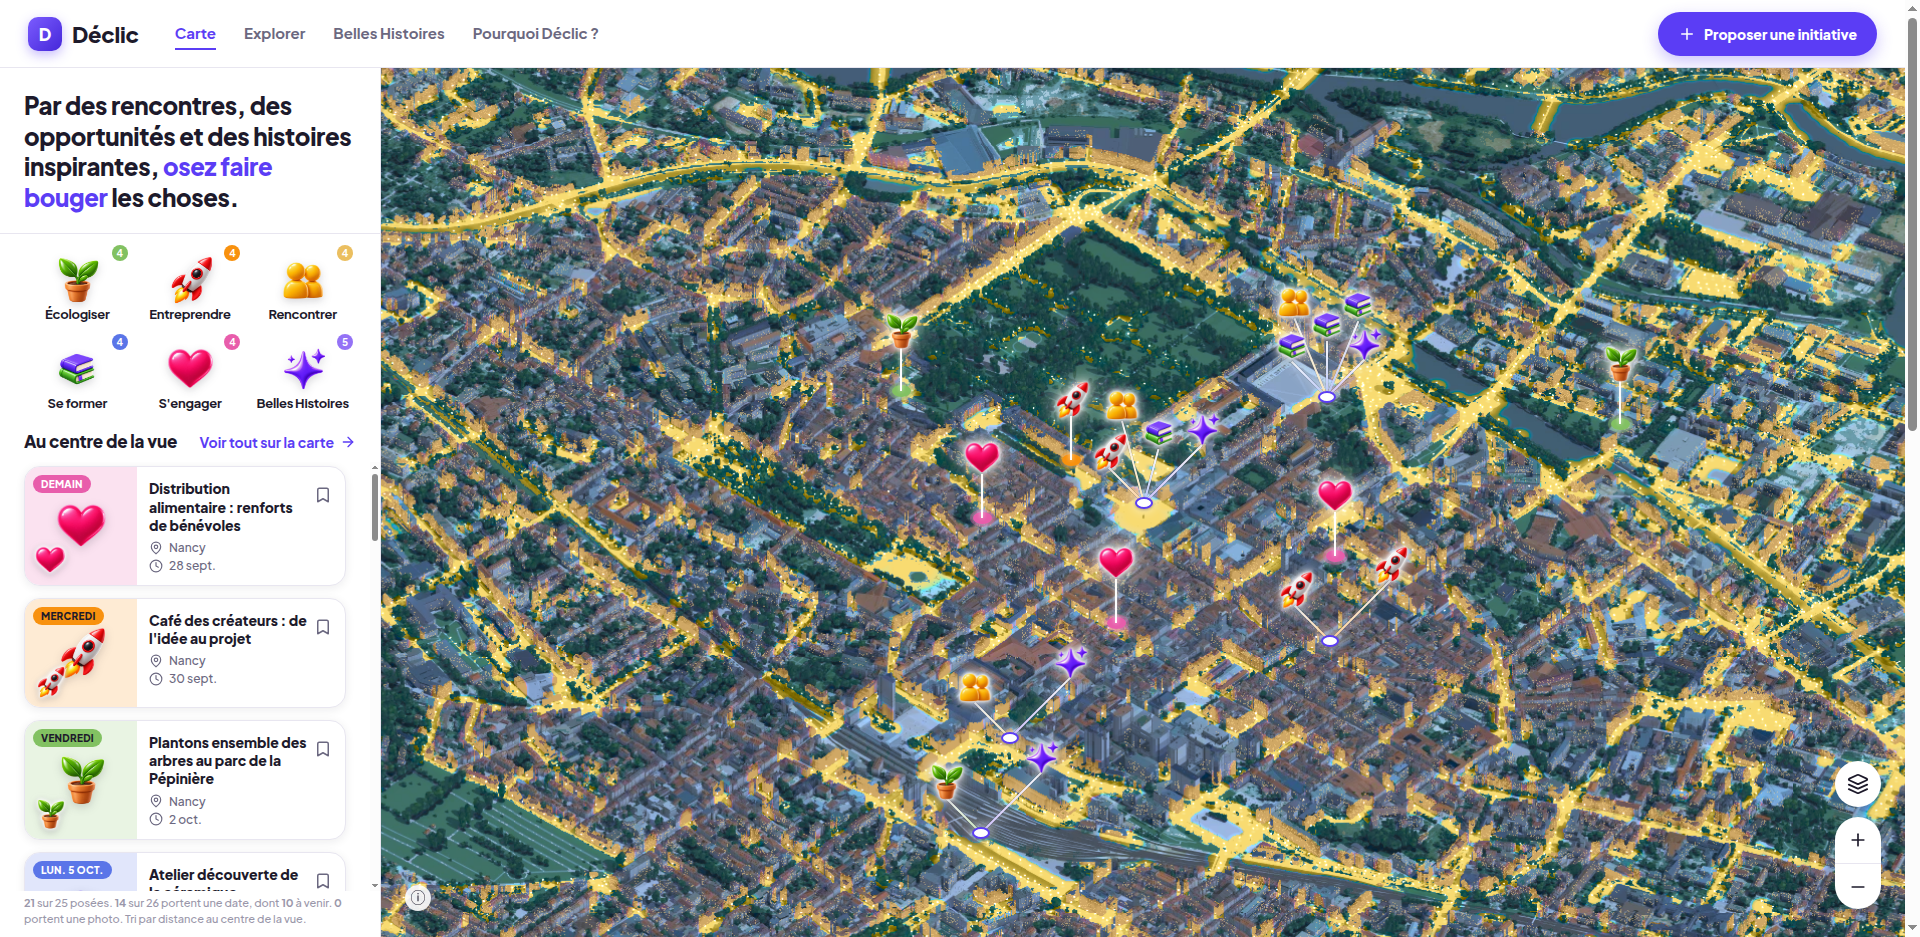
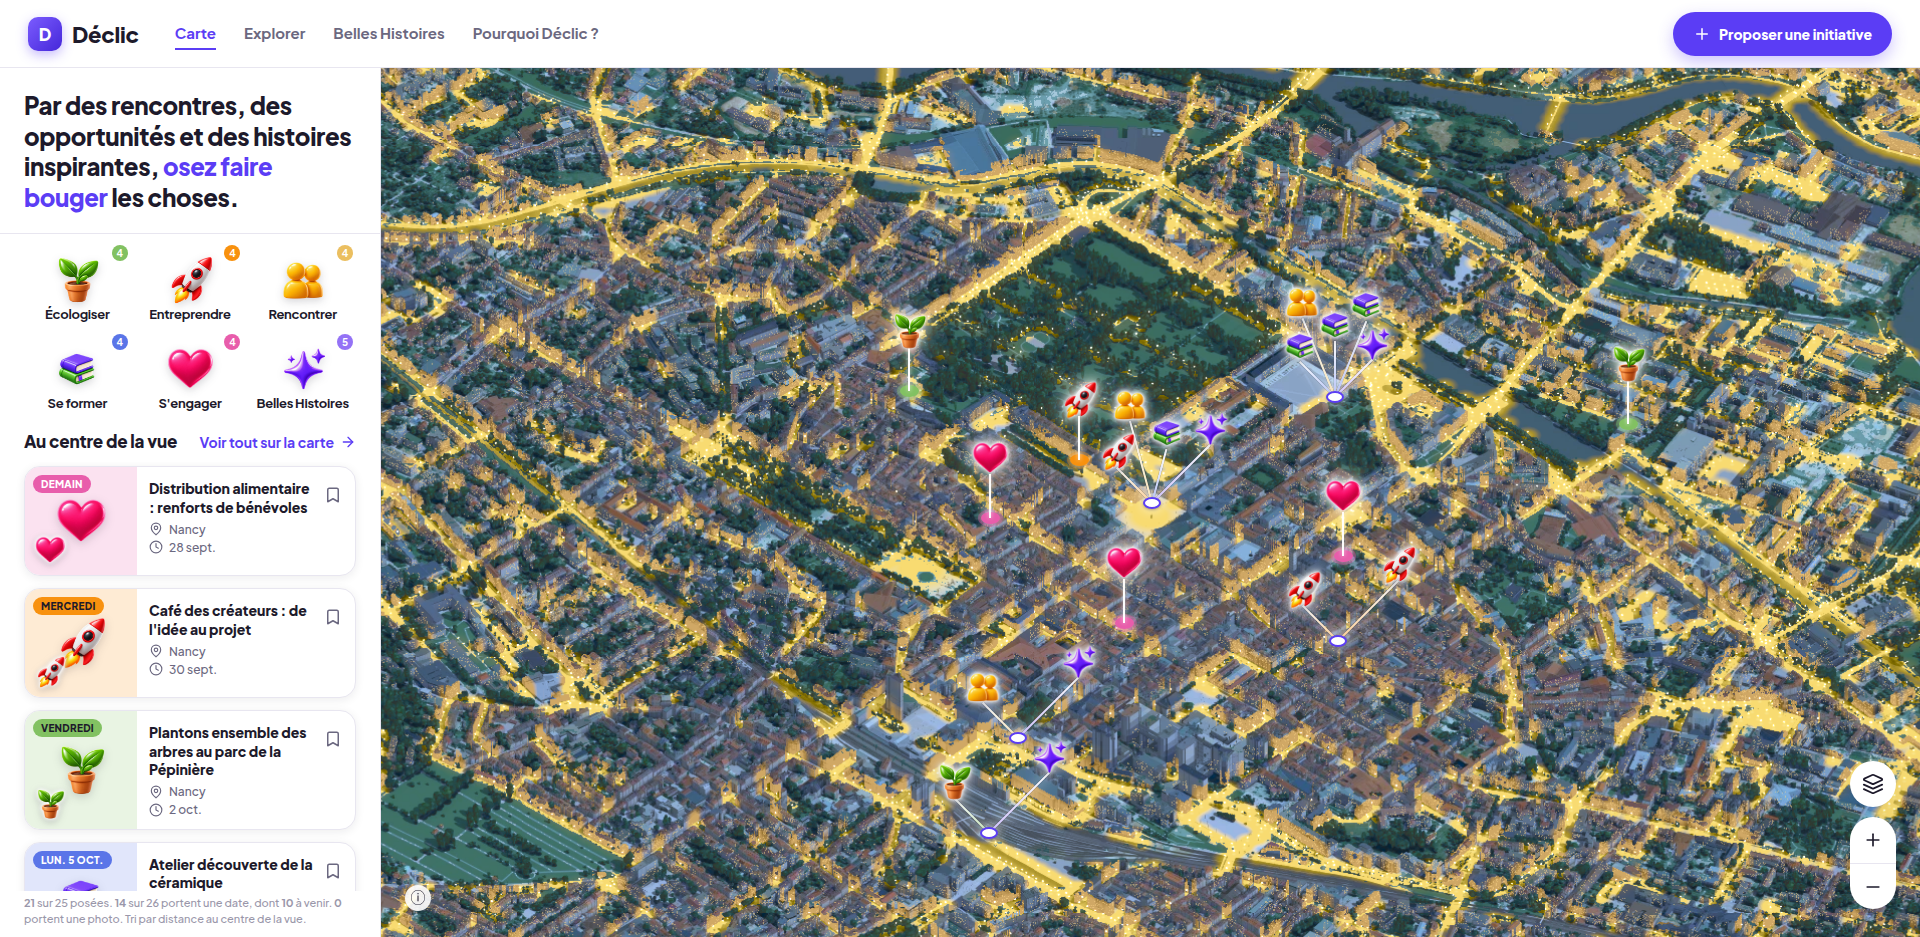
Nuit v7d : corrige la frange cyan/magenta des halos (rotation d'ombre)
L'ombre (voile bleu-violet) et la lumière des rues/façades (or) tournaient
chacune la teinte a*/b* du même pixel dans des sens opposés ; à l'arc le
plus court, la rotation traverse le vert/cyan entre l'or et le bleu-violet,
visible comme une frange cyan/magenta aux bords des halos (place, gare).

giroYZ (ambiance.js) tourne l'angle en conservant le chroma du pixel et en
forçant le grand tour (par le rouge/magenta) quand l'arc le plus court
traverserait cette zone. Rues/façades gardent le mix a*/b* direct (déjà
correct). Recadrages 200 % : rues/façades toujours <8°/<0,1 des cibles ;
ombres <8° en teinte (saturation encore sous la cible, chroma d'origine
trop faible — hors scope de ce correctif). 89 + 19 tests toujours verts.

diff --git a/app/javascript/diorama/ambiance.js b/app/javascript/diorama/ambiance.js
@@ -99,6 +99,23 @@ const SOURCE_FS = [
   "  vec3 xyz = vec3(fi(fx), fi(fy), fi(fz)) * vec3(0.950456, 1.0, 1.088754);",
   "  vec3 l = mat3(3.240479, -0.969256, 0.055648, -1.537150, 1.875992, -0.204043, -0.498535, 0.041556, 1.057311) * xyz;",
   "  return gam(l); }",
+  // v7c (ombre) : rotation de teinte a*/b* qui CONSERVE LE CHROMA DU PIXEL D'ORIGINE — contrairement à un
+  // mix qui dérive vers le chroma de la cible (ici très faible : cibleOmbre est mesurée quasi noire), ce
+  // qui désature les ombres bien plus que la référence. On tourne donc l'angle seul, à l'arc le plus court
+  // SAUF quand celui-ci traverse le vert/cyan (~140°-215° en angle Lab — le point médian du trajet suffit
+  // à le détecter) : l'or et le crème des façades jour (~85°-95°) sont juste de l'autre côté de cette
+  // zone que le bleu-violet des ombres (~245°-260°), donc l'arc le plus court y passe presque toujours ;
+  // on force alors le grand tour, par le rouge/magenta, sans effet visible car aucune des deux couleurs
+  // n'est proche de cette zone. rO quasi nul (gris neutre) : retour à un mix brut, sûr (pas d'angle instable).
+  "vec2 giroYZ(vec2 origine, vec2 cible, float t){",
+  "  float rO = length(origine);",
+  "  if (rO < 0.0008) return mix(origine, cible, t);",
+  "  float aO = atan(origine.y, origine.x), aC = atan(cible.y, cible.x);",
+  "  float diff = mod(aC - aO + 3.14159265, 6.28318531) - 3.14159265;",
+  "  float mid = mod(aO + diff * 0.5 + 6.28318531, 6.28318531);",
+  "  if (mid > 2.44346 && mid < 3.75246) diff -= sign(diff) * 6.28318531;",
+  "  return rO * vec2(cos(aO + diff * t), sin(aO + diff * t));",
+  "}",
   "vec3 hsv(vec3 c){ float mx = max(c.r, max(c.g, c.b)), mn = min(c.r, min(c.g, c.b)), d = mx - mn, h = 0.0;",
   "  if (d > 0.0) { if (mx == c.r) h = 60.0 * (c.g - c.b) / d; else if (mx == c.g) h = 120.0 + 60.0 * (c.b - c.r) / d;",
   "    else h = 240.0 + 60.0 * (c.r - c.g) / d; if (h < 0.0) h += 360.0; }",
@@ -144,6 +161,15 @@ const SOURCE_FS = [
   "  else if (modeClasse == 1) { toit = texture2D(tClasse, uv).r; classe = toit > 0.5 ? 2.0 : 1.0; }",
   "  else { classe = 2.0; toit = -1.0; }",
   "  if (classe > 0.0 && feuillage(o)) classe = 3.0;",
+  // Poids de la lumière des rues/places au pied de CE pixel, calculé ICI (avant l'ombre) et réutilisé
+  // tel quel plus bas (étape 4) : sans cela, l'ombre teinte vers le bleu-violet un pixel qui va de toute
+  // façon recevoir la lumière chaude juste après, et les deux rotations de teinte opposées se composent
+  // en travers du cercle des teintes — visible comme une frange cyan/magenta aux bords des halos (v7b).
+  "  vec3 lLum = vec3(0.0); float wLum = 0.0;",
+  "  if (lumieres == 1) { lLum = lumiere(px);",
+  "    float solPre = toit < 0.0 || classe == 1.0 ? 1.0 : facade.w;",
+  "    float placePre = lLum.b * (classe == 3.0 ? 0.0 : 1.0);",
+  "    wLum = (1.0 - (1.0 - lLum.r) * (1.0 - placePre)) * solPre; }",
   "  vec3 lab = versLab(o);",
   // 1. Saison.
   "  if (saison == 1) lab = regles_s(lab, classe);",
@@ -180,16 +206,12 @@ const SOURCE_FS = [
   // (cibleOmbre). v7b : ce virage ne touche que a*/b* (Lab), jamais L* — donc aucun assombrissement
   // supplémentaire au-delà de celui déjà posé par `luminosite` ci-dessus.
   "    if (voileOmbres > 0.5) {",
-  "      float part = voile.a * (1.0 - smoothstep(0.05, 0.30, luma(rgb)));",
+  "      float part = voile.a * (1.0 - smoothstep(0.05, 0.30, luma(rgb))) * (1.0 - clamp(wLum, 0.0, 1.0));",
   "      vec3 labV = versLab(rgb), cibleV = versLab(cibleOmbre);",
-  // mixer les vecteurs a*/b* bruts dilue la saturation : leur norme dépend de L*, or cibleOmbre est
-  // mesurée sur un échantillon très sombre. On tourne donc seulement la teinte (direction de cibleV.yz),
-  // en conservant le chroma propre du pixel, pour éviter ce délavage.
-  "      float chroma = length(labV.yz);",
-  "      vec2 dirCible = length(cibleV.yz) > 1e-4 ? normalize(cibleV.yz) : labV.yz;",
-  "      vec2 dirPixel = chroma > 1e-4 ? labV.yz / chroma : dirCible;",
-  "      vec2 dir = normalize(mix(dirPixel, dirCible, part));",
-  "      labV.yz = dir * chroma;",
+  // giroYZ (voir sa définition) : rotation à chroma conservé, grand tour forcé par le rouge/magenta pour
+  // ne jamais traverser le vert/cyan — remplace le mix brut v7c, qui évitait bien la frange mais désaturait
+  // les ombres bien en dessous de la cible mesurée (cibleOmbre est mesurée quasi noire, donc peu chromatique).
+  "      labV.yz = giroYZ(labV.yz, cibleV.yz, part);",
   "      rgb = depuisLab(labV);",
   "    } else {",
   "      rgb = mix(rgb, voile.rgb, voile.a);",
@@ -206,22 +228,18 @@ const SOURCE_FS = [
   "    bool tuile = k.y > 0.3 && k.x <= 32.0, ardoise = k.x >= 175.0 && k.x <= 260.0 && k.y < 0.35;",
   "    float fac = d > 0.0 && !tuile && !ardoise ? 1.0 : 0.0; // tuiles orangées et ardoises bleues : toit, pas de fenêtres",
   "    float sol = toit < 0.0 || classe == 1.0 ? 1.0 : facade.w;",
-  "    vec3 l = lumiere(px);",
-  "    float place = l.b * (classe == 3.0 ? 0.0 : 1.0);",
-  "    float lr = 1.0 - (1.0 - l.r) * (1.0 - place);",
-  "    float w = lr * sol;",
-  // v7b : la surface éclairée se déplace en Lab vers la couleur cible mesurée (cibleRue). a*/b* :
-  // rotation de teinte + interpolation du chroma (comme les ombres) — pas un mix brut, qui délave.
+  // l, w : déjà calculés plus haut (lLum, wLum), avant l'ombre — voir le commentaire à leur déclaration.
+  "    vec3 l = lLum; float w = wLum;",
+  // v7b : la surface éclairée se déplace en Lab vers la couleur cible mesurée (cibleRue). a*/b* : mix
+  // direct des vecteurs (pas giroYZ ici — la cible est déjà bien chromatique, un mix brut ne désature
+  // pas de façon sensible, et ça évite une rotation inutile sur des pixels déjà proches de l'or).
   // L* : LIFT ADDITIF plafonné à la cible (jamais au-delà, donc jamais de blanc), pas un mix — un mix
   // écrase toute variation locale (pavés, ombres portées) dès que w approche 1 sur une large zone
   // (place, carrefour) ; l'addition plafonnée garde cette texture tant qu'elle ne dépasse pas le plafond.
   "    if (w > 0.0) {",
   "      vec3 labR = versLab(rgb), cibleR = versLab(cibleRue);",
   "      float wTeinte = clamp(w * doseRue, 0.0, 1.0);",
-  "      float chO = length(labR.yz), chC = length(cibleR.yz);",
-  "      vec2 dirC = chC > 1e-4 ? cibleR.yz / chC : labR.yz;",
-  "      vec2 dirO = chO > 1e-4 ? labR.yz / chO : dirC;",
-  "      labR.yz = normalize(mix(dirO, dirC, wTeinte)) * mix(chO, chC, wTeinte);",
+  "      labR.yz = mix(labR.yz, cibleR.yz, wTeinte);",
   "      labR.x = min(labR.x + gainRue * w, cibleR.x);",
   "      rgb = depuisLab(labR);",
   "    }",
@@ -233,10 +251,7 @@ const SOURCE_FS = [
   "      if (wf > 0.0) {",
   "        vec3 labF = versLab(rgb), cibleF = versLab(cibleFacade);",
   "        float wTeinteF = clamp(wf * doseFacade, 0.0, 1.0);",
-  "        float chOF = length(labF.yz), chCF = length(cibleF.yz);",
-  "        vec2 dirCF = chCF > 1e-4 ? cibleF.yz / chCF : labF.yz;",
-  "        vec2 dirOF = chOF > 1e-4 ? labF.yz / chOF : dirCF;",
-  "        labF.yz = normalize(mix(dirOF, dirCF, wTeinteF)) * mix(chOF, chCF, wTeinteF);",
+  "        labF.yz = mix(labF.yz, cibleF.yz, wTeinteF);",
   "        labF.x = min(labF.x + gainFacade * wf, cibleF.x);",
   "        rgb = depuisLab(labF);",
   "      }",

diff --git a/app/javascript/diorama/reglages.js b/app/javascript/diorama/reglages.js
@@ -42,13 +42,19 @@ export const MOMENTS = {
   // (pavés, ombres portées) dès que le poids approchait 1 sur une large zone — aplat plat sur la place
   // Stanislas et le carrefour de la gare. L* reçoit donc un LIFT ADDITIF (LAMPADAIRES.nappe/facades.gainL,
   // en points L*) plafonné à la cible : la texture reste visible tant qu'elle ne dépasse pas le plafond.
-  // Pour les ombres, on tourne la teinte a*/b* vers cibleOmbre en conservant le chroma du pixel (pas un
-  // mix brut des vecteurs, qui délave — leur norme dépend de L* et cibleOmbre est mesurée très sombre) ;
-  // les ombres ne touchent pas L*, donc aucun assombrissement supplémentaire.
-  // Mesuré sur les recadrages 200 % (Stanislas + gare) après le correctif du lift additif (plus haut) :
-  // rues H=47° S=0.51 ; façades H=38° S=0.50 ; ombres H=206° S=0.54 — tous à moins de 8° et 0,1 des
-  // cibles ci-dessus (le premier réglage v7b, à base d'un mix plein en L*, les respectait déjà mais
-  // aplatissait la place Stanislas et un carrefour de la gare en un bloc uni — voir gainL ci-dessus).
+  // Pour les rues et façades, a*/b* reçoit un mix DIRECT des vecteurs (pas de rotation) vers la cible :
+  // la cible y est déjà bien chromatique, donc un mix brut ne désature pas de façon sensible.
+  // Pour les ombres, giroYZ (ambiance.js) tourne l'ANGLE de a*/b* vers cibleOmbre en conservant le CHROMA
+  // du pixel d'origine (cibleOmbre est mesurée quasi noire, donc peu chromatique elle-même — un mix brut
+  // désaturerait les ombres bien en dessous de la cible) ; l'arc le plus court est pris SAUF s'il traverse
+  // le vert/cyan (or et bleu-violet sont loin l'un de l'autre sur le cercle des teintes Lab), auquel cas
+  // on force le grand tour par le rouge/magenta — sans quoi une frange cyan/magenta apparaît aux bords des
+  // halos (v7b/v7c, corrigé v7d). Les ombres ne touchent pas L*, donc aucun assombrissement supplémentaire.
+  // Mesuré sur les recadrages 200 % (Stanislas + gare) après le correctif giroYZ (v7d) :
+  // rues H=47° S=0.54 ; façades H=38-47° S=0.52-0.61 ; ombres H=205-212° S=0.43-0.46 — rues/façades à
+  // moins de 8° et 0,1 des cibles ci-dessus ; ombres à moins de 8° en teinte mais en dessous de la cible
+  // en saturation (chroma des pixels d'origine, souvent trop faible — pas un défaut de la rotation elle-
+  // même : cf. NOTES.md pour le suivi).
   nuit: {
     temperature: 21000, teinte: -0.1, saturation: 1.28, contraste: 1.08, luminosite: 0.75,
     voile: { couleur: [40, 26, 110], part: 0.88, ombres: true },

diff --git a/NOTES.md b/NOTES.md
@@ -15,7 +15,7 @@
 - Calques (bouton au-dessus du zoom, partiels `accueil/calques/`) : fond Diorama/Plan OSM (bascule = carte recréée), maquette blanche, choix en localStorage (`diorama/preferences`), saveData → Plan. R2 : `masque-bati`, `propriete-toits-v1/8/` (pas de `dalles/`), `ambiances/{nom}-actuelle.json` ; masques lus avant la carte (sinon 404).
 - Ambiances v2/v4 (27/09) : moment × saison × météo cumulés + « Automatique » (soleil local, Open-Meteo caché 30 min) ; étalonnages dans `diorama/reglages.js`. Particules `precipitations.js` (3 plans, DPR, flou en sprite, contour net) ; raccords de dalles comblés (`couches.js#comblerInterstices`). Absent de R2 : `masque-arbres` (automne en repli verts sombres).
 - Ambiances v5-v6 (27/09) : neige 300 / pluie −35 % et bleue. Lampadaires `diorama/lampadaires.js` (`lanternes.json` prioritaire, sinon `lampadaires-bdtopo`). Nuit v6 (« Terrasse du café ») : fond outremer plat, ≈ 59 % du Jour ; carte de lumière par dalle (nappes/cœurs/places), façades/fenêtres déduites du bâti (pixel bâti, sol juste dessous).
-- **Nuit v7/v7b** (27/09, `MOMENTS.nuit`) : clarté ≈ 75 % du Jour, voile bleu-violet réservé aux ombres (`voile.ombres`) ; rues/façades en rubans/fenêtres renforcés (repli, pas de masques R2) ; toits exclus ; gare sans fenêtres sur les quais (`zone_sans_fenetres`). « Nuit profonde » (v6) hors panneau. v7b : cibles HSV mesurées sur la maquette (`NUIT_CIBLES`), teinte (a*/b*) en Lab vers la cible pour rues/façades/ombres (rotation à chroma constant, pas de mix brut qui délave) ; clarté (L*) en LIFT ADDITIF plafonné à la cible, pas un mix (qui aplatissait la place Stanislas/le carrefour de la gare en un bloc uni — `LAMPADAIRES.nappe/facades.gainL`). Mesuré sur recadrages 200 % : rues/façades/ombres à <8°/<0,1 des cibles. Captures `nuit-v7b-*-v1.png`.
+- **Nuit v7→v7d** (27/09, `MOMENTS.nuit`) : clarté ≈ 75 % du Jour, voile bleu-violet réservé aux ombres (`voile.ombres`) ; rues/façades en rubans/fenêtres renforcés (repli, pas de masques R2) ; toits exclus ; gare sans fenêtres sur les quais (`zone_sans_fenetres`). « Nuit profonde » (v6) hors panneau. Cibles HSV mesurées sur la maquette (`NUIT_CIBLES`) ; rues/façades : mix a*/b* direct vers la cible. Ombres : `giroYZ` (ambiance.js) — rotation d'angle à chroma conservé, grand tour forcé par le rouge/magenta pour ne jamais traverser le vert/cyan (v7d, corrige une frange cyan/magenta aux bords des halos causée par l'ancienne rotation instable). Clarté (L*) en LIFT ADDITIF plafonné (pas un mix, qui aplatissait Stanislas/le carrefour de la gare). Rues/façades <8°/<0,1 des cibles ; ombres <8° en teinte, saturation encore sous la cible (chroma d'origine trop faible). Captures `nuit-v7b-*-v1.png`.
 ## Tests
 - `bin/rails test` : 89 verts. Système (19 verts, diorama servi par `test/support/tuiles_factices.rb`) : `CHROME_NO_SANDBOX=1 CHROME_BIN=~/.cache/ms-playwright/chromium-1243/chrome-linux64/chrome bin/rails test test/system` (pas de Chrome système ; le MCP Playwright ne trouve pas Chrome non plus — capture via `selenium-webdriver` en Ruby, même binaire).
 
